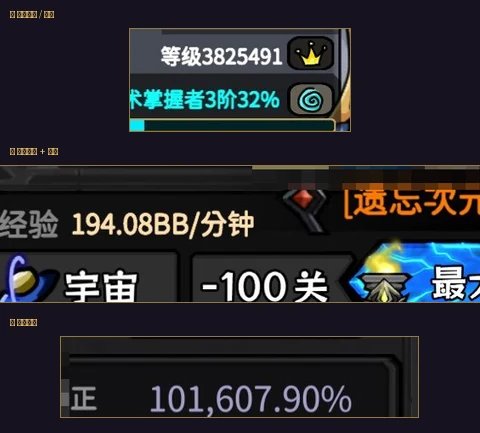
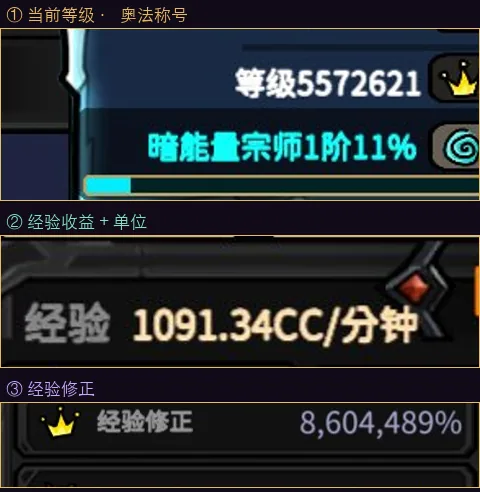
v0.17.10：识别截图说明示例图更新为当前界面（等级/称号、经验收益、经验修正）

diff --git a/index.html b/index.html
@@ -5,7 +5,7 @@
 <meta name="viewport" content="width=device-width, initial-scale=1, maximum-scale=1, user-scalable=no, viewport-fit=cover">
 <meta name="robots" content="noindex, nofollow">
 <meta name="theme-color" content="#060b18">
-<title>无限升级 · 轮回计算器 v13.0「誓灭之境」 v0.17.9</title>
+<title>无限升级 · 轮回计算器 v13.0「誓灭之境」 v0.17.10</title>
 <link rel="icon" href="icon-192.png">
 <link rel="manifest" href="manifest.webmanifest">
 <link rel="apple-touch-icon" href="icon-180.png">
@@ -1596,7 +1596,7 @@ html.fx-off </style>
   <div class="top-row">
     <div class="t1-col">
       <div class="t1">轮回计算器</div>
-      <div class="t1-sub"><span class="badge" id="unitTag">BB</span><span class="badge" id="verTag">v0.17.9</span><span class="beta-tag">BETA</span></div>
+      <div class="t1-sub"><span class="badge" id="unitTag">BB</span><span class="badge" id="verTag">v0.17.10</span><span class="beta-tag">BETA</span></div>
     </div>
     <div class="brand-mid">
       <img class="brand-logo" src="assets/logo_wxsj.webp" alt="无限升级">
@@ -2538,7 +2538,7 @@ html.fx-off </style>
         <li>奥法（称号 + 阶数）</li>
         <li>属性面板、转生面板数值登记共享表</li>
       </ul>
-      <img class="oi-img" src="assets/ocr_sample.webp" alt="识别区域示例">
+      <img class="oi-img" src="assets/ocr_sample.webp" alt="识别区域示例（当前界面）">
       <div class="oi-warn">
         截图注意：关卡按钮切到 <b>最大收益</b>；属性面板露出 <b>经验修正</b> 那一行；
         顶部名片的 <b>等级 / 奥法称号</b> 完整可见；不要裁剪。<br>
@@ -8451,6 +8451,6 @@ document.querySelectorAll('.tocitem').forEach(function(a){
 
 })();
 </script>
-<div class="pubfoot" style="text-align:center;font-size:10.5px;color:#8a8070;padding:10px 12px 16px;line-height:1.7">项目作者：木东 · v0.17.9<br>数据来源：页面已写明来源的整理者与攻略作者</div>
+<div class="pubfoot" style="text-align:center;font-size:10.5px;color:#8a8070;padding:10px 12px 16px;line-height:1.7">项目作者：木东 · v0.17.10<br>数据来源：页面已写明来源的整理者与攻略作者</div>
 </body>
 </html>
